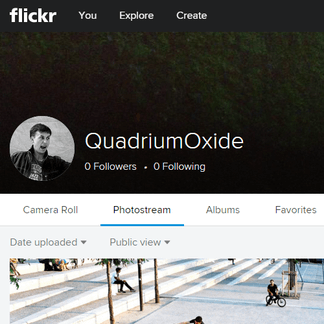
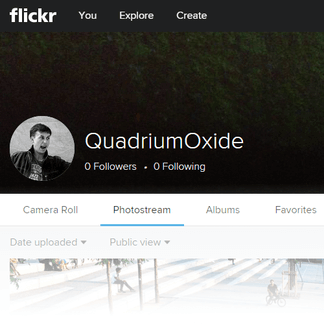
Added gradient directly to image
gradient_mask.png saved so that the gradient can be recreated

Changed region(s): [[0.0309, 0.7407, 1.0, 1.0], [0.3086, 0.6173, 0.5556, 0.7099]]

diff --git a/css/nategraff.css b/css/nategraff.css
@@ -24,7 +24,7 @@ a {
 	padding: 0;
 }
 .site-link {
-	height: 342px;
+	height: 356px;
 	width: 330px;
 	padding: 12px;
 	margin: 12px;
@@ -38,7 +38,6 @@ a {
 }
 .site-link img {
 	height: 324px;
-	-webkit-mask-image: -webkit-gradient(linear, left 50%, left bottom, from(rgba(0,0,0,1)), to(rgba(0,0,0,0)));
 }
 footer {
 	font-size: 12px;
